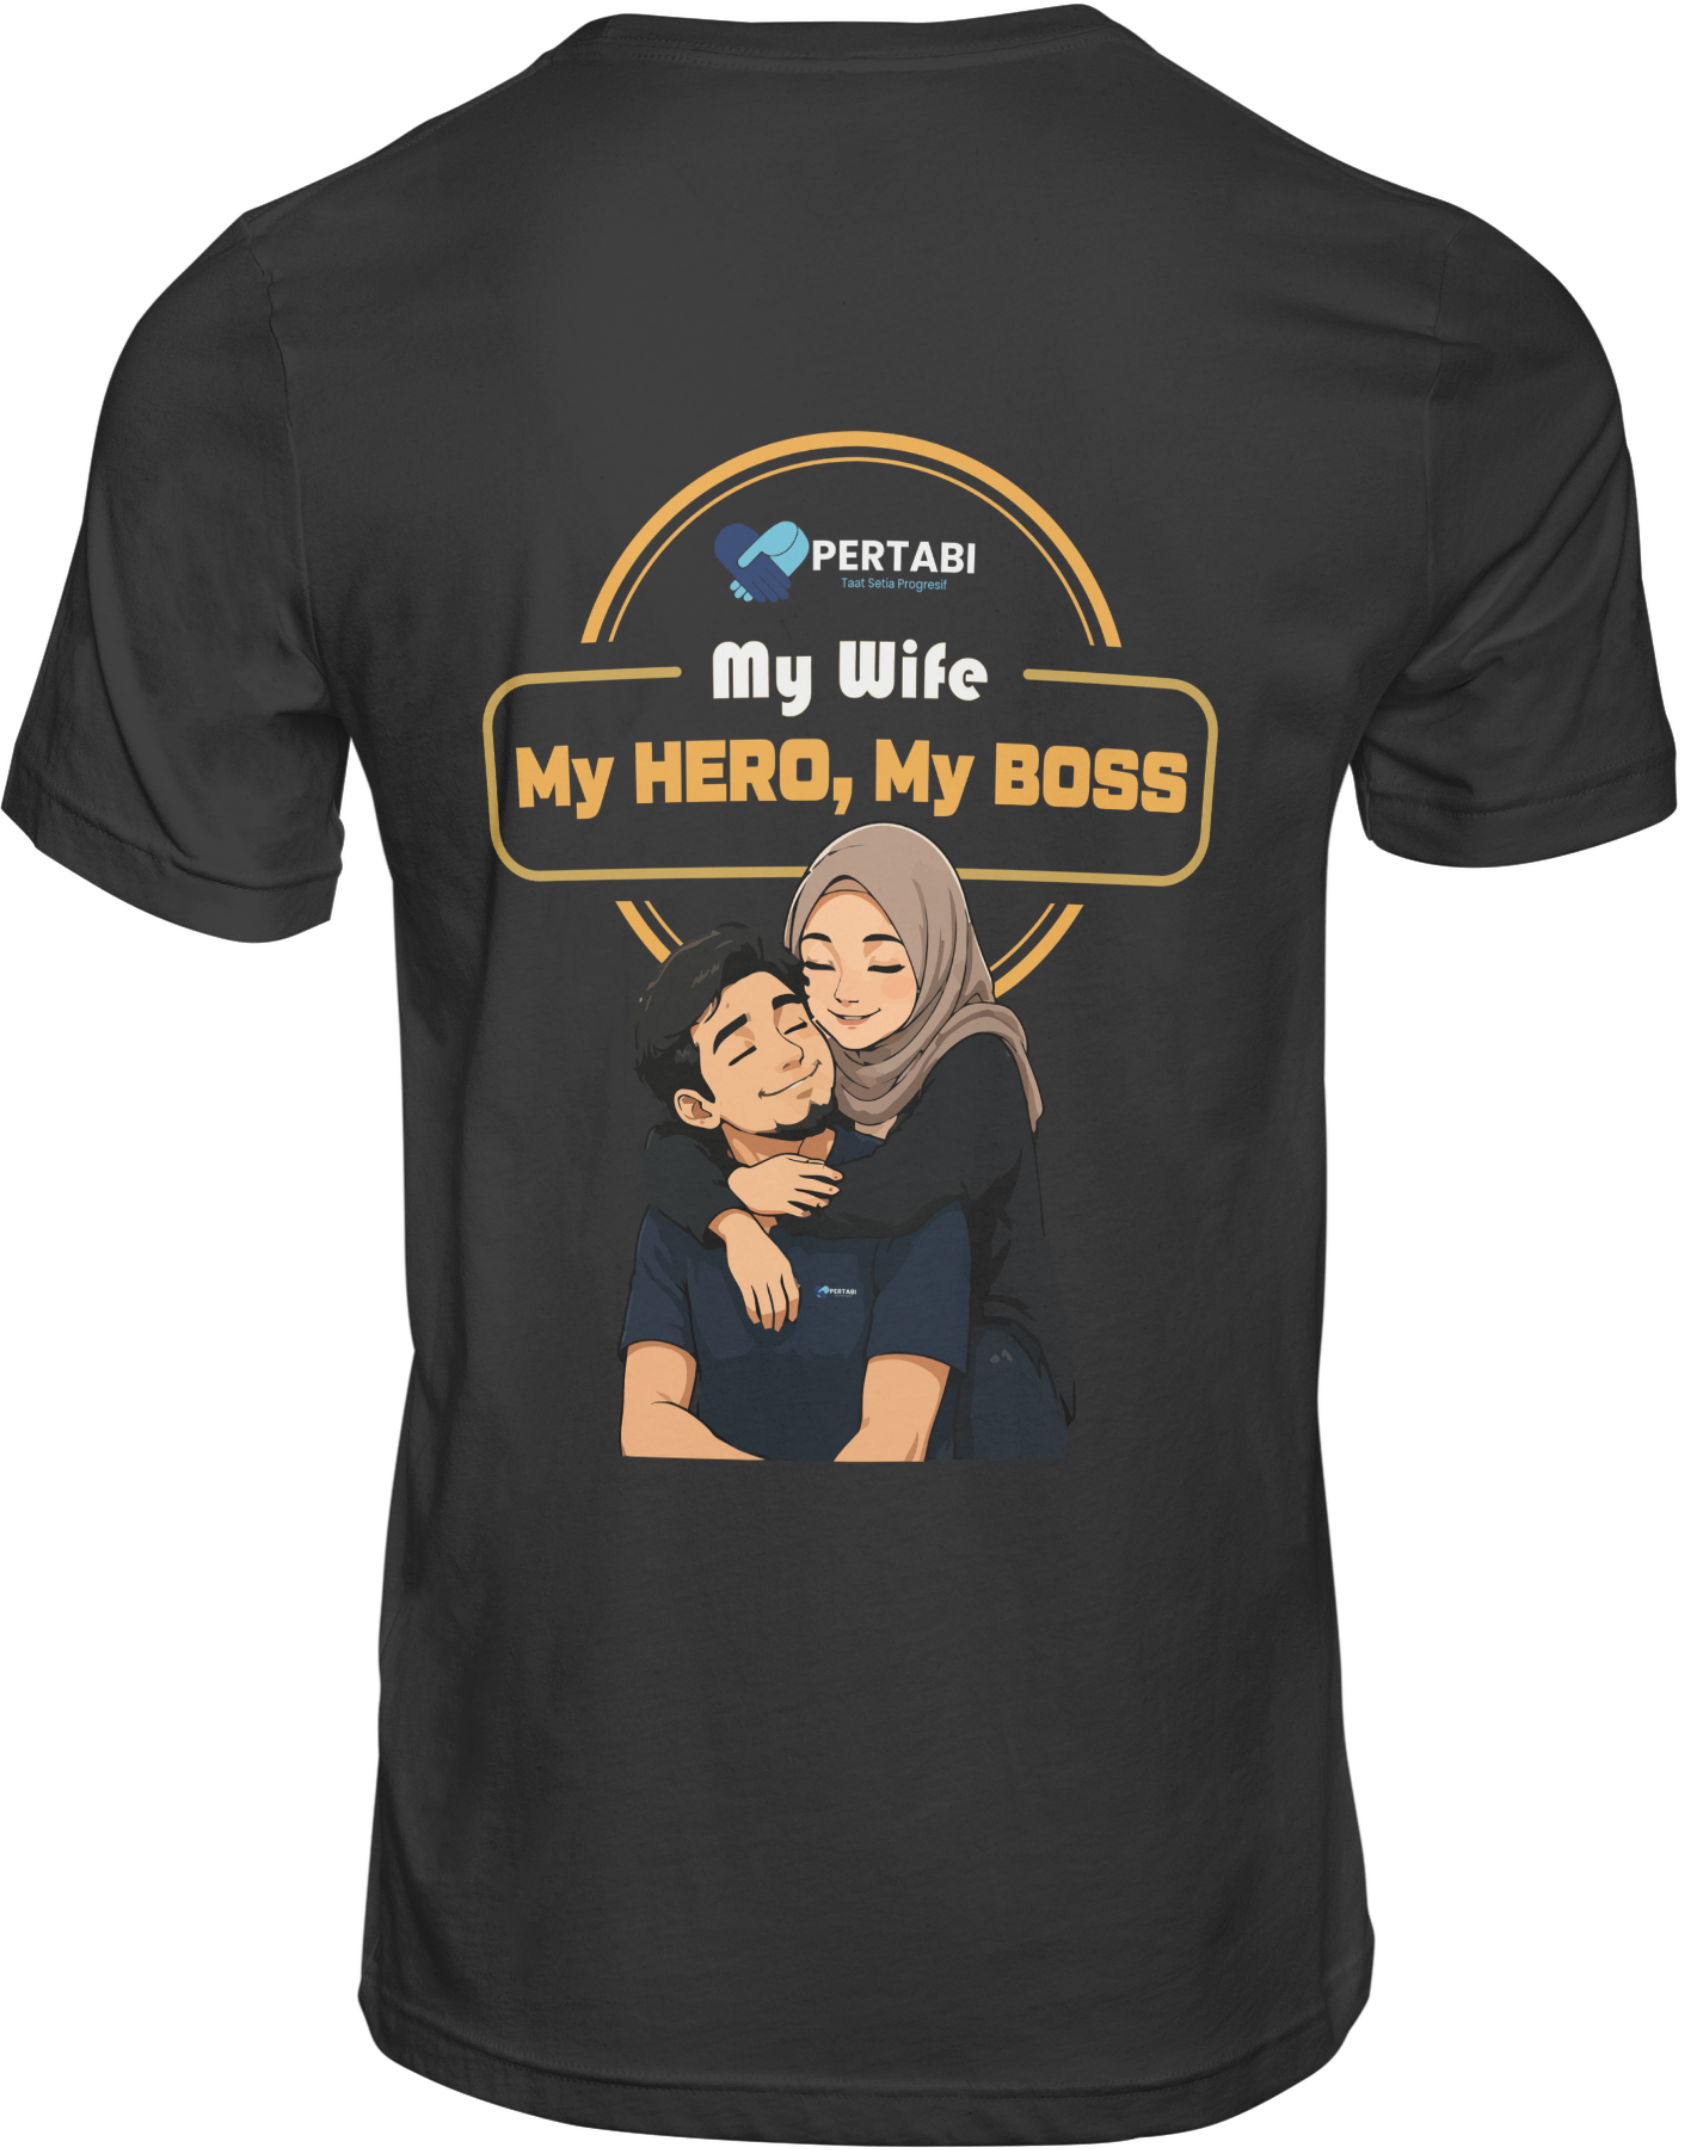
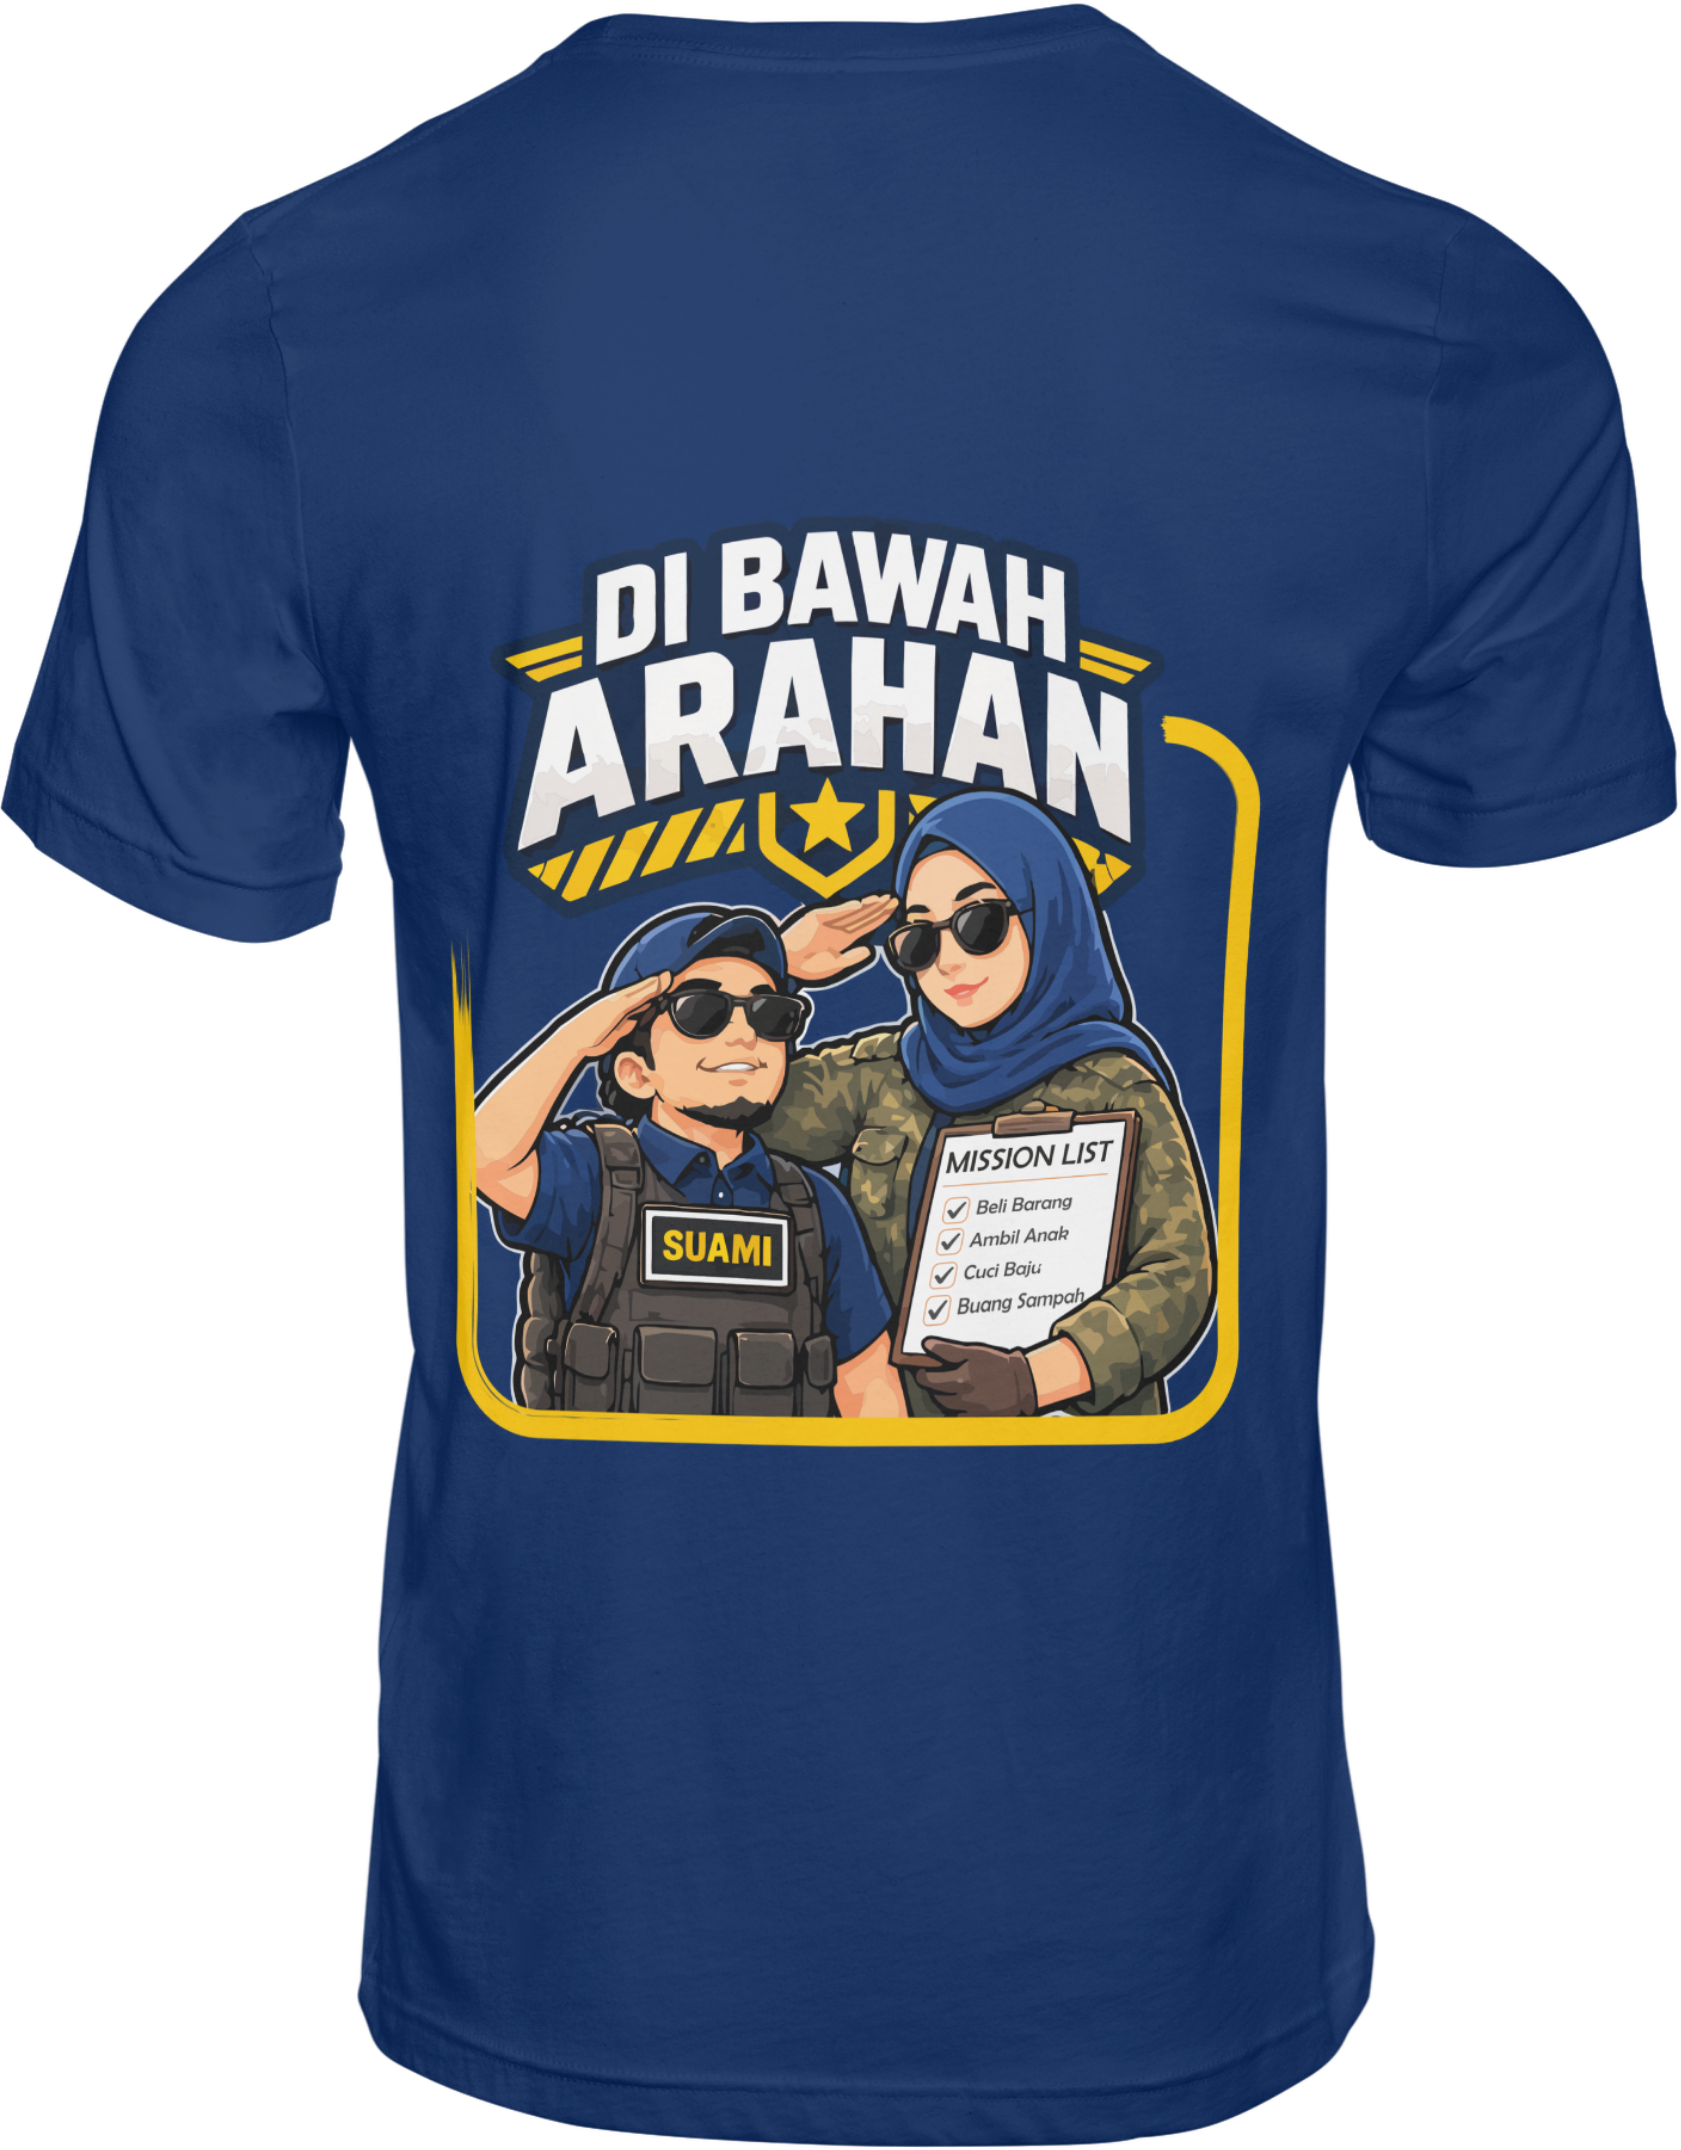
feat(pertabi): dynamic jersey folder gallery with automatic multi-view carousel

diff --git a/products/Pertabi/index.html b/products/Pertabi/index.html
@@ -231,7 +231,7 @@
         .merch-carousel-stage {
             background: linear-gradient(180deg, #f4f7fb 0%, #e9eef5 100%);
             position: relative;
-            min-height: 440px;
+            min-height: 460px;
             display: flex;
             align-items: center;
             justify-content: center;
@@ -243,7 +243,7 @@
         }
 
         .merch-slide-img {
-            max-height: 380px;
+            max-height: 400px;
             max-width: 90%;
             object-fit: contain;
             filter: drop-shadow(0 15px 30px rgba(0, 0, 0, 0.18));
@@ -340,8 +340,8 @@
             background: #f0f3f8;
             cursor: pointer;
             transition: all 0.2s ease;
-            width: 74px;
-            height: 74px;
+            width: 76px;
+            height: 76px;
             display: flex;
             align-items: center;
             justify-content: center;
@@ -476,7 +476,7 @@
                 <img id="featuresBanner" src="banner.svg" alt="PERTABI Features Banner">
             </div>
 
-            <!-- Two-Column Layout for Overview & Primary Details -->
+            <!-- Two-Column Layout for Overview & Brand Assets -->
             <div class="row mb-4">
                 <!-- Left Column: Details & Logo -->
                 <div class="col-lg-5">
@@ -505,7 +505,7 @@
                     </div>
                 </div>
 
-                <!-- Right Column: Section A - Brand Assets -->
+                <!-- Right Column: Section A - Brand Vectors -->
                 <div class="col-lg-7">
                     <div class="product-details-card">
                         <div class="section-header-wrap">
@@ -525,17 +525,17 @@
                 </div>
             </div>
 
-            <!-- Full-Width Section B: Merchandise Carousel Gallery -->
+            <!-- Full-Width Section B: Merchandise Carousel Gallery (All Jersey Images) -->
             <div class="row">
                 <div class="col-12">
                     <div class="section-header-wrap mb-3">
                         <div>
                             <h2 class="h3 text-semibold mb-1 d-flex align-items-center gap-2">
-                                <iconify-icon icon="fluent:tag-24-regular" class="text-accent"></iconify-icon>Official Merchandise &amp; Activewear
+                                <iconify-icon icon="fluent:tag-24-regular" class="text-accent"></iconify-icon>Official Merchandise — Jersey Gallery
                             </h2>
-                            <p class="text-muted mb-0">Exclusive lifestyle merchandise, active jerseys, and community gear</p>
+                            <p class="text-muted mb-0">Interactive showcase displaying all activewear assets from the <code>Jersey/</code> folder</p>
                         </div>
-                        <span class="section-badge">Carousel Gallery View</span>
+                        <span class="section-badge" id="merchCountBadge">Jersey Collection</span>
                     </div>
 
                     <!-- Carousel Container -->
@@ -562,9 +562,9 @@
                         <!-- Meta & Download Bar (updates with active slide) -->
                         <div class="merch-meta-panel" id="merchMetaPanel">
                             <div>
-                                <span class="badge bg-primary me-2" id="merchMetaTag">Activewear</span>
-                                <h3 class="merch-meta-title" id="merchMetaTitle">PERTABI Active Jersey 2026</h3>
-                                <p class="merch-meta-desc" id="merchMetaDesc">High-performance breathable dry-fit activewear.</p>
+                                <span class="badge bg-primary me-2" id="merchMetaTag">Jersey Collection</span>
+                                <h3 class="merch-meta-title" id="merchMetaTitle">PERTABI Jersey</h3>
+                                <p class="merch-meta-desc" id="merchMetaDesc">Official high-performance activewear jersey.</p>
                             </div>
                             <div class="d-flex align-items-center gap-2">
                                 <a id="merchDownloadBtn" href="" download class="btn btn-primary px-4 py-2 d-flex align-items-center gap-2">
@@ -625,6 +625,32 @@
     <script src="../../assets/js/gallery-helpers.js"></script>
     
     <script>
+        /**
+         * Helper: Auto-generates human-readable titles for Jersey / Merchandise files.
+         */
+        function humanizeMerchTitle(filename) {
+            const clean = filename.replace(/^Jersey\//i, '');
+            const nameWithoutExt = clean.substring(0, clean.lastIndexOf('.')) || clean;
+            
+            // Detect View angles
+            let viewLabel = '';
+            if (nameWithoutExt.endsWith('_1') || /front/i.test(nameWithoutExt)) {
+                viewLabel = 'Front View';
+            } else if (nameWithoutExt.endsWith('_2') || /back/i.test(nameWithoutExt)) {
+                viewLabel = 'Back View';
+            } else if (nameWithoutExt.endsWith('_3') || /side/i.test(nameWithoutExt)) {
+                viewLabel = 'Side View';
+            }
+
+            const baseName = nameWithoutExt
+                .replace(/[-_][0-9]+$/g, '')
+                .replace(/[-_]/g, ' ')
+                .replace(/\bjersy\b/i, 'Jersey')
+                .replace(/\bpertabi\b/i, 'PERTABI');
+
+            return viewLabel ? `${baseName} — ${viewLabel}` : baseName;
+        }
+
         document.addEventListener('DOMContentLoaded', async () => {
             try {
                 // Fetch product metadata
@@ -680,11 +706,27 @@
                 }
                 document.getElementById('ownershipText').textContent = (meta.ownership && meta.ownership.text) || '';
 
-                // 5. Render Section A: Brand Assets (Logos & Vectors)
+                // 5. Render Section A: Brand Vectors
                 const brandAssetsGrid = document.getElementById('brandAssetsGrid');
                 brandAssetsGrid.innerHTML = '';
                 
-                const brandAssetsList = meta.brandAssets || [];
+                // Support both string array and object array
+                let brandAssetsList = [];
+                if (Array.isArray(meta.brandAssets)) {
+                    brandAssetsList = meta.brandAssets.map(item => {
+                        if (typeof item === 'string') {
+                            const isDark = item.includes('dark');
+                            const isVert = item.includes('vertical');
+                            return {
+                                file: item,
+                                title: isVert ? 'Logo PERTABI Vertical (Stacked)' : (isDark ? 'Logo PERTABI Horizontal (Dark BG)' : 'Logo PERTABI Horizontal (Light BG)'),
+                                desc: isVert ? 'Stacked vertical logo for emblems & avatars.' : (isDark ? 'Vector layout with white text for dark surfaces.' : 'Primary vector layout for light surfaces.')
+                            };
+                        }
+                        return item;
+                    });
+                }
+                
                 document.getElementById('brandAssetsCount').textContent = `${brandAssetsList.length} Vector Assets`;
 
                 brandAssetsList.forEach(asset => {
@@ -715,14 +757,33 @@
                     brandAssetsGrid.appendChild(col);
                 });
 
-                // 6. Render Section B: Merchandise Carousel Gallery
+                // 6. Render Section B: Merchandise Carousel (Auto-parses all images in Jersey folder)
                 const carouselInner = document.getElementById('carouselInner');
                 const merchThumbnails = document.getElementById('merchThumbnails');
                 carouselInner.innerHTML = '';
                 merchThumbnails.innerHTML = '';
 
-                const merchItems = meta.merchandise || [];
-                
+                // Extract all merchandise images from meta.merchandise or meta.assets
+                let rawMerchList = meta.merchandise || [];
+                if (rawMerchList.length === 0 && Array.isArray(meta.assets)) {
+                    rawMerchList = meta.assets.filter(a => a.startsWith('Jersey/') || /\.(png|jpg|jpeg|webp)$/i.test(a));
+                }
+
+                // Transform raw list into normalized items
+                const merchItems = rawMerchList.map(entry => {
+                    if (typeof entry === 'string') {
+                        return {
+                            file: entry,
+                            title: humanizeMerchTitle(entry),
+                            tag: 'Official Activewear',
+                            desc: 'High-performance moisture-wicking activewear featuring the official PERTABI crest and emblem.'
+                        };
+                    }
+                    return entry;
+                });
+
+                document.getElementById('merchCountBadge').textContent = `${merchItems.length} Jersey Views`;
+
                 merchItems.forEach((item, index) => {
                     const isActive = index === 0 ? 'active' : '';
 
@@ -753,7 +814,7 @@
                     const cur = merchItems[index];
                     document.getElementById('merchMetaTitle').textContent = cur.title;
                     document.getElementById('merchMetaDesc').textContent = cur.desc;
-                    document.getElementById('merchMetaTag').textContent = cur.tag || 'Merchandise';
+                    document.getElementById('merchMetaTag').textContent = cur.tag || 'Jersey Collection';
                     document.getElementById('merchDownloadBtn').href = cur.file;
                     
                     // Update active thumbnail
